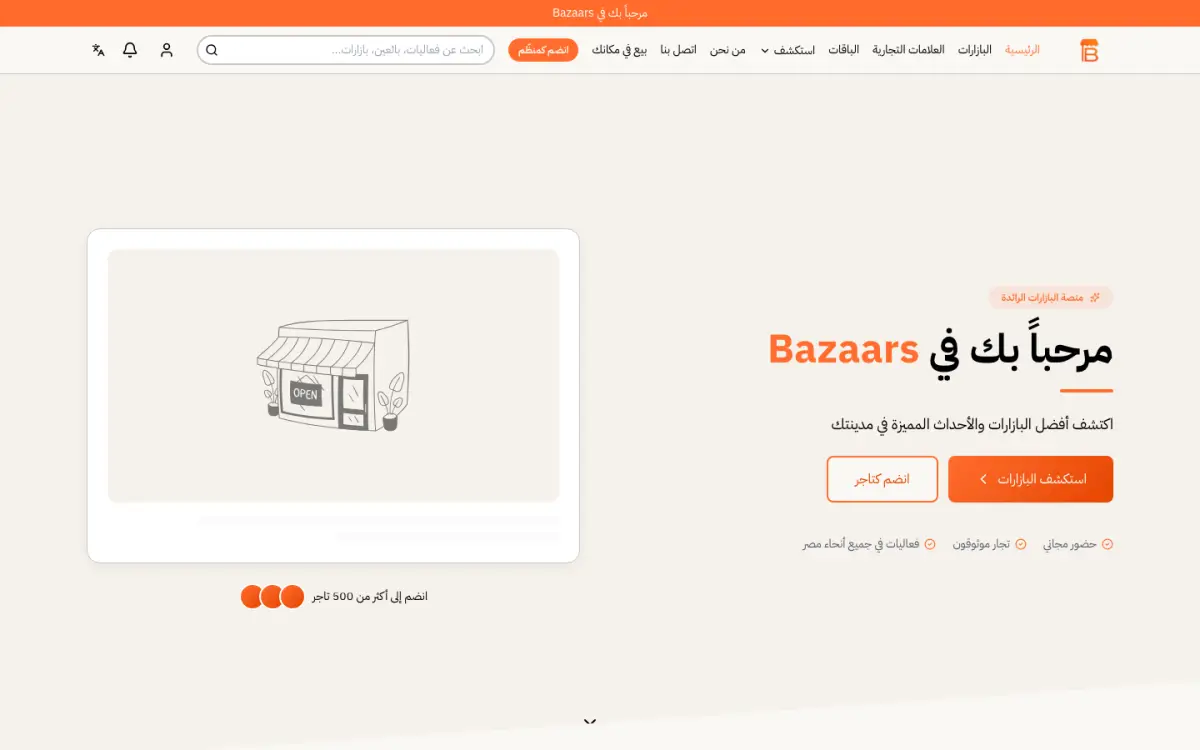
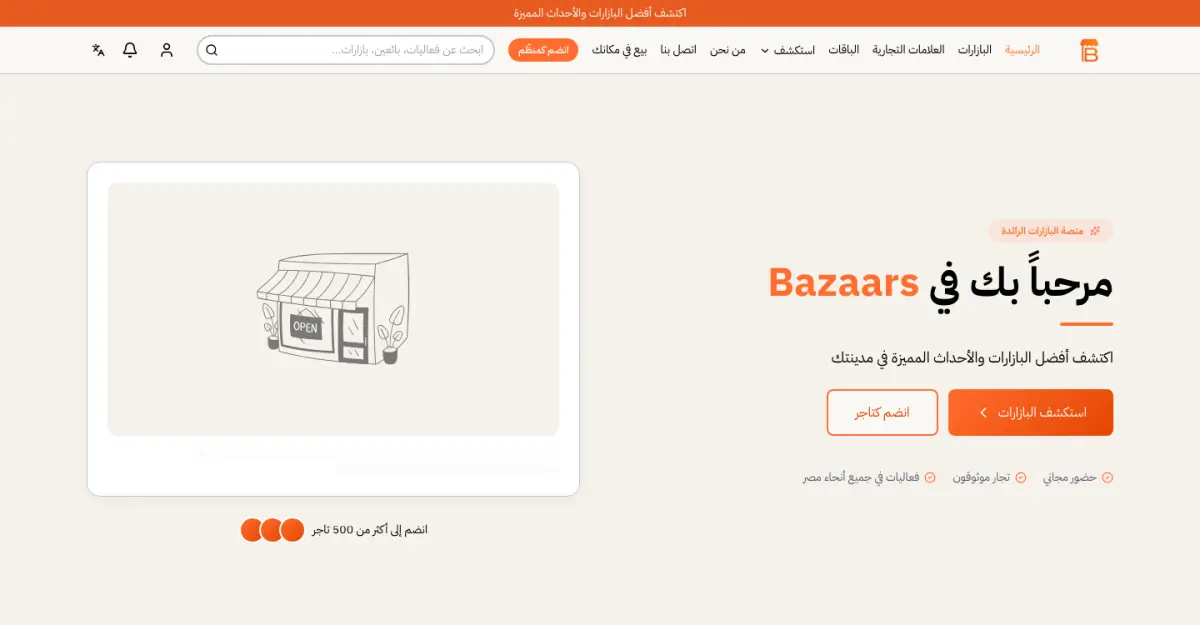
Show Bazaar's home screen on its card in the group map

diff --git a/dist/projects/ourbride-group/index.html b/dist/projects/ourbride-group/index.html
@@ -519,7 +519,7 @@ html{background:#F6F4F0!important;scroll-behavior:smooth}
         <span class="hd">للعروس: مخطط الزفاف، متجر العرائس، المجتمع. ويب + iOS + Android.</span>
       </a>
       <a class="hc bz" href="https://our-bazaar.com" target="_blank" rel="noopener" style="grid-area:b">
-        <span class="hs"><img src="assets/bazaar-boothallocation.webp" alt="لقطة بازار" loading="lazy"></span>
+        <span class="hs"><img src="assets/bazaar-home.webp" alt="الصفحة الرئيسية لبازار" loading="lazy"></span>
         <span class="hb"><img class="hl" src="assets/bazaar.svg" alt=""><span><b>Bazaar · بازار</b><small class="u">our-bazaar.com</small></span></span>
         <span class="hd">للمنظمين والبائعين والزوار: أكشاك، تذاكر، نقاط بيع، كونسبت ستور.</span>
       </a>
@@ -711,7 +711,7 @@ bz:{
  gtm:[['01','إطلاق 3–5 بازارات رائدة مع كبار المنظمين في القاهرة والجيزة'],['02','ضم 2,000+ بائع وتحويل الـ 840 الحاليين لعملاء يدفعون'],['03','افتتاح 3 كونسبت ستور جاهزة للامتياز'],['04','تفعيل الامتياز في مصر · M18: 10 متاجر امتياز · M24–30: السعودية والخليج · M36: السلسلة A أو استحواذ']],
  ask:{amt:'EGP 3M – 5M',sub:'تقريباً $60,000 – $100,000 · مدرج 18 شهراً · العرض ودليل الأسئلة يقسمانه 40/30/20/10',funds:[[23,'3–5 فعاليات بازار رائدة','EGP 600K–1M · GMV وبيانات حقيقية'],[16,'إتمام المنتج','EGP 400K–700K · الكونسبت ستور، صالات العرض، الامتياز'],[19,'المبيعات والتسويق','EGP 500K–800K · 10 منظمين، 2,000+ بائع'],[28,'أول كونسبت ستور رائد','EGP 800K–1.2M · إثبات نموذج الامتياز'],[14,'العمليات والقانوني والتوظيف','EGP 400K–600K · 2–3 توظيفات']]},
  risks:[['سرعة تبني المنظمين','معرفة 80%+ من مجتمع المنظمين عبر أور برايد وشامل، و2 مبيعات مدن'],['تنفيذ الكونسبت ستور','متاجر تجريبية مملوكة 6 أشهر قبل الترخيص'],['تقلب الاقتصاد','الجنيه الضعيف يجعل العلامة المحلية هي الخيار'],['منافس ممول','18+ شهراً من تأثير الشبكة والعلاقات']],
- shots:[['bazaar-boothallocation.webp','إدارة الأكشاك','خريطة تفاعلية للتوزيع والحجز والدفع'],['bazaar-eventdetails.webp','صفحة الفعالية','تفاصيل البازار والأسعار والتقديم'],['bazaar-bazaarsearch.webp','البحث على الخريطة','البازارات حسب الموقع والفئة'],['bazaar-analysis.webp','التقارير والتحليلات','المشاهدات والزوار ومصادر الزيارات'],['bazaar-home.webp','الصفحة الرئيسية','our-bazaar.com · التقاط حي اليوم: صورة الهيرو فارغة'],['bazaar-mobile.webp','الرئيسية على الجوال','لقطة غرفة البيانات · مارس 2026']],
+ shots:[['bazaar-boothallocation.webp','إدارة الأكشاك','خريطة تفاعلية للتوزيع والحجز والدفع'],['bazaar-eventdetails.webp','صفحة الفعالية','تفاصيل البازار والأسعار والتقديم'],['bazaar-bazaarsearch.webp','البحث على الخريطة','البازارات حسب الموقع والفئة'],['bazaar-analysis.webp','التقارير والتحليلات','المشاهدات والزوار ومصادر الزيارات'],['bazaar-home.webp','الصفحة الرئيسية','our-bazaar.com · التقاط حي اليوم · مكان صورة الهيرو يعرض رسماً مؤقتاً'],['bazaar-mobile.webp','الرئيسية على الجوال','لقطة غرفة البيانات · مارس 2026']],
  pitch:[['شاشة المستثمرين','https://our-bazaar.com/investors','حيّة · عامة · «Confidential»',['8 عدادات + حالة المنتج','01 المشكلة · 02 الرؤية · 03 السوق · 04 الحل','05 نموذج العمل · 06 دخول السوق · 07 التوقعات','08 الحماية · 10 الأسئلة (6 تبويبات) · 11 الطلب'],'افتح الشاشة'],
   ['دليل النمو في 6 أسواق','https://our-bazaar.com/investors/growth-playbook','صفحة مستقلة · عامة',['مصر، السعودية، الإمارات، عُمان، تونس، المغرب','قنوات الوصول للمنظمين مرتبة بالتحويل','قمع لكل سوق ومصادر لكل رقم'],'افتح الدليل'],
   ['العرض التقديمي PDF','https://our-bazaar.com/bazaar-investor-deck.pdf','PDF · 11 صفحة · 214 KB',['الغلاف: 434 بائع نشط · 411 كشك · 13 بازار','المشكلة، الحل، السوق، لماذا الآن، المنصة','الاقتصاديات، الإسقاطات، المزايا، الطلب EGP 3M–5M'],'تحميل PDF'],
@@ -844,7 +844,7 @@ var DR={
   m:[['840+','بائع نشط'],['843','إجمالي الأكشاك'],['29','بازار'],['21','فعالية'],['4','كونسبت ستور'],['3','صالات عرض'],['3','مدن نشطة']],
   inv:'https://our-bazaar.com/investors',
   links:[['الموقع','https://our-bazaar.com'],['شاشة المستثمرين','https://our-bazaar.com/investors'],['دليل النمو','https://our-bazaar.com/investors/growth-playbook'],['العرض PDF','https://our-bazaar.com/bazaar-investor-deck.pdf'],['غرفة البيانات','https://shaaml.online/data-room'],['App Store',''],['Google Play','']],
-  shots:[['dr-bazaar-desktop.webp','الرئيسية · سطح المكتب'],['bazaar-mobile.webp','الرئيسية · الجوال',1],['bazaar-boothallocation.webp','إدارة الأكشاك'],['bazaar-eventdetails.webp','صفحة الفعالية'],['bazaar-bazaarsearch.webp','البحث على الخريطة'],['bazaar-analysis.webp','التقارير والتحليلات']],
+  shots:[['bazaar-home.webp','الرئيسية · اليوم'],['dr-bazaar-desktop.webp','الرئيسية · مارس 2026'],['bazaar-mobile.webp','الرئيسية · الجوال',1],['bazaar-boothallocation.webp','إدارة الأكشاك'],['bazaar-eventdetails.webp','صفحة الفعالية'],['bazaar-bazaarsearch.webp','البحث على الخريطة'],['bazaar-analysis.webp','التقارير والتحليلات']],
   docs:[['Bazaar Pitch Deck','PPTX · 11 شريحة','https://shaaml.online/documents/bazaar-investor-deck.pptx','av'],['Bazaar Investor Deck','PDF · 11 صفحة','https://our-bazaar.com/bazaar-investor-deck.pdf','av'],['Bazaar Growth Metrics Report','مكتوب «متاح» بلا ملف','','no']]},
  sh:{n:'Shaaml',ar:'شامل',tag:'Service Provider Management Platform',tagAr:'منصة إدارة مقدمي الخدمات',
   en:'A multi-platform SaaS connecting service providers with consumers. Shaaml powers booking, scheduling, payments, and multi-platform distribution across beauty, events, photography, and more.',

diff --git a/projects/ourbride-group.html b/projects/ourbride-group.html
@@ -491,7 +491,7 @@ html{background:#F6F4F0!important;scroll-behavior:smooth}
         <span class="hd">للعروس: مخطط الزفاف، متجر العرائس، المجتمع. ويب + iOS + Android.</span>
       </a>
       <a class="hc bz" href="https://our-bazaar.com" target="_blank" rel="noopener" style="grid-area:b">
-        <span class="hs"><img src="assets/bazaar-boothallocation.webp" alt="لقطة بازار" loading="lazy"></span>
+        <span class="hs"><img src="assets/bazaar-home.webp" alt="الصفحة الرئيسية لبازار" loading="lazy"></span>
         <span class="hb"><img class="hl" src="assets/bazaar.svg" alt=""><span><b>Bazaar · بازار</b><small class="u">our-bazaar.com</small></span></span>
         <span class="hd">للمنظمين والبائعين والزوار: أكشاك، تذاكر، نقاط بيع، كونسبت ستور.</span>
       </a>
@@ -683,7 +683,7 @@ bz:{
  gtm:[['01','إطلاق 3–5 بازارات رائدة مع كبار المنظمين في القاهرة والجيزة'],['02','ضم 2,000+ بائع وتحويل الـ 840 الحاليين لعملاء يدفعون'],['03','افتتاح 3 كونسبت ستور جاهزة للامتياز'],['04','تفعيل الامتياز في مصر · M18: 10 متاجر امتياز · M24–30: السعودية والخليج · M36: السلسلة A أو استحواذ']],
  ask:{amt:'EGP 3M – 5M',sub:'تقريباً $60,000 – $100,000 · مدرج 18 شهراً · العرض ودليل الأسئلة يقسمانه 40/30/20/10',funds:[[23,'3–5 فعاليات بازار رائدة','EGP 600K–1M · GMV وبيانات حقيقية'],[16,'إتمام المنتج','EGP 400K–700K · الكونسبت ستور، صالات العرض، الامتياز'],[19,'المبيعات والتسويق','EGP 500K–800K · 10 منظمين، 2,000+ بائع'],[28,'أول كونسبت ستور رائد','EGP 800K–1.2M · إثبات نموذج الامتياز'],[14,'العمليات والقانوني والتوظيف','EGP 400K–600K · 2–3 توظيفات']]},
  risks:[['سرعة تبني المنظمين','معرفة 80%+ من مجتمع المنظمين عبر أور برايد وشامل، و2 مبيعات مدن'],['تنفيذ الكونسبت ستور','متاجر تجريبية مملوكة 6 أشهر قبل الترخيص'],['تقلب الاقتصاد','الجنيه الضعيف يجعل العلامة المحلية هي الخيار'],['منافس ممول','18+ شهراً من تأثير الشبكة والعلاقات']],
- shots:[['bazaar-boothallocation.webp','إدارة الأكشاك','خريطة تفاعلية للتوزيع والحجز والدفع'],['bazaar-eventdetails.webp','صفحة الفعالية','تفاصيل البازار والأسعار والتقديم'],['bazaar-bazaarsearch.webp','البحث على الخريطة','البازارات حسب الموقع والفئة'],['bazaar-analysis.webp','التقارير والتحليلات','المشاهدات والزوار ومصادر الزيارات'],['bazaar-home.webp','الصفحة الرئيسية','our-bazaar.com · التقاط حي اليوم: صورة الهيرو فارغة'],['bazaar-mobile.webp','الرئيسية على الجوال','لقطة غرفة البيانات · مارس 2026']],
+ shots:[['bazaar-boothallocation.webp','إدارة الأكشاك','خريطة تفاعلية للتوزيع والحجز والدفع'],['bazaar-eventdetails.webp','صفحة الفعالية','تفاصيل البازار والأسعار والتقديم'],['bazaar-bazaarsearch.webp','البحث على الخريطة','البازارات حسب الموقع والفئة'],['bazaar-analysis.webp','التقارير والتحليلات','المشاهدات والزوار ومصادر الزيارات'],['bazaar-home.webp','الصفحة الرئيسية','our-bazaar.com · التقاط حي اليوم · مكان صورة الهيرو يعرض رسماً مؤقتاً'],['bazaar-mobile.webp','الرئيسية على الجوال','لقطة غرفة البيانات · مارس 2026']],
  pitch:[['شاشة المستثمرين','https://our-bazaar.com/investors','حيّة · عامة · «Confidential»',['8 عدادات + حالة المنتج','01 المشكلة · 02 الرؤية · 03 السوق · 04 الحل','05 نموذج العمل · 06 دخول السوق · 07 التوقعات','08 الحماية · 10 الأسئلة (6 تبويبات) · 11 الطلب'],'افتح الشاشة'],
   ['دليل النمو في 6 أسواق','https://our-bazaar.com/investors/growth-playbook','صفحة مستقلة · عامة',['مصر، السعودية، الإمارات، عُمان، تونس، المغرب','قنوات الوصول للمنظمين مرتبة بالتحويل','قمع لكل سوق ومصادر لكل رقم'],'افتح الدليل'],
   ['العرض التقديمي PDF','https://our-bazaar.com/bazaar-investor-deck.pdf','PDF · 11 صفحة · 214 KB',['الغلاف: 434 بائع نشط · 411 كشك · 13 بازار','المشكلة، الحل، السوق، لماذا الآن، المنصة','الاقتصاديات، الإسقاطات، المزايا، الطلب EGP 3M–5M'],'تحميل PDF'],
@@ -816,7 +816,7 @@ var DR={
   m:[['840+','بائع نشط'],['843','إجمالي الأكشاك'],['29','بازار'],['21','فعالية'],['4','كونسبت ستور'],['3','صالات عرض'],['3','مدن نشطة']],
   inv:'https://our-bazaar.com/investors',
   links:[['الموقع','https://our-bazaar.com'],['شاشة المستثمرين','https://our-bazaar.com/investors'],['دليل النمو','https://our-bazaar.com/investors/growth-playbook'],['العرض PDF','https://our-bazaar.com/bazaar-investor-deck.pdf'],['غرفة البيانات','https://shaaml.online/data-room'],['App Store',''],['Google Play','']],
-  shots:[['dr-bazaar-desktop.webp','الرئيسية · سطح المكتب'],['bazaar-mobile.webp','الرئيسية · الجوال',1],['bazaar-boothallocation.webp','إدارة الأكشاك'],['bazaar-eventdetails.webp','صفحة الفعالية'],['bazaar-bazaarsearch.webp','البحث على الخريطة'],['bazaar-analysis.webp','التقارير والتحليلات']],
+  shots:[['bazaar-home.webp','الرئيسية · اليوم'],['dr-bazaar-desktop.webp','الرئيسية · مارس 2026'],['bazaar-mobile.webp','الرئيسية · الجوال',1],['bazaar-boothallocation.webp','إدارة الأكشاك'],['bazaar-eventdetails.webp','صفحة الفعالية'],['bazaar-bazaarsearch.webp','البحث على الخريطة'],['bazaar-analysis.webp','التقارير والتحليلات']],
   docs:[['Bazaar Pitch Deck','PPTX · 11 شريحة','https://shaaml.online/documents/bazaar-investor-deck.pptx','av'],['Bazaar Investor Deck','PDF · 11 صفحة','https://our-bazaar.com/bazaar-investor-deck.pdf','av'],['Bazaar Growth Metrics Report','مكتوب «متاح» بلا ملف','','no']]},
  sh:{n:'Shaaml',ar:'شامل',tag:'Service Provider Management Platform',tagAr:'منصة إدارة مقدمي الخدمات',
   en:'A multi-platform SaaS connecting service providers with consumers. Shaaml powers booking, scheduling, payments, and multi-platform distribution across beauty, events, photography, and more.',
